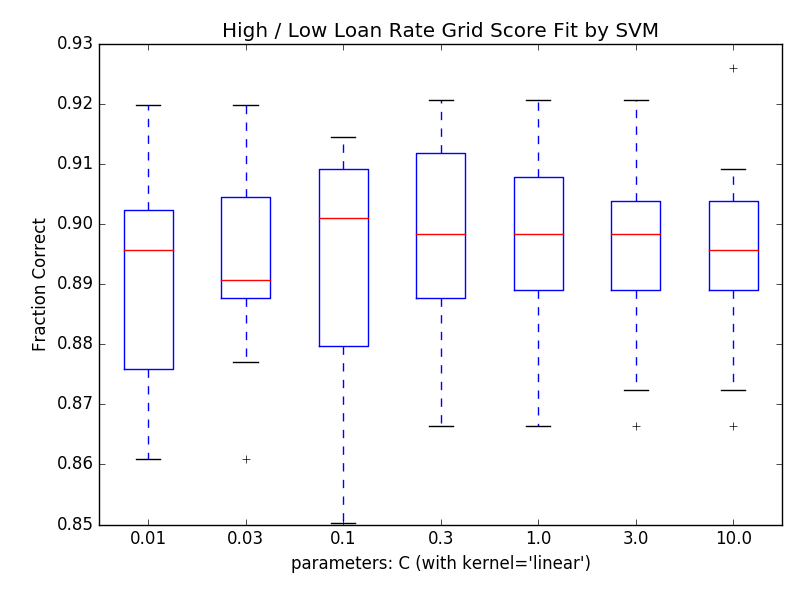
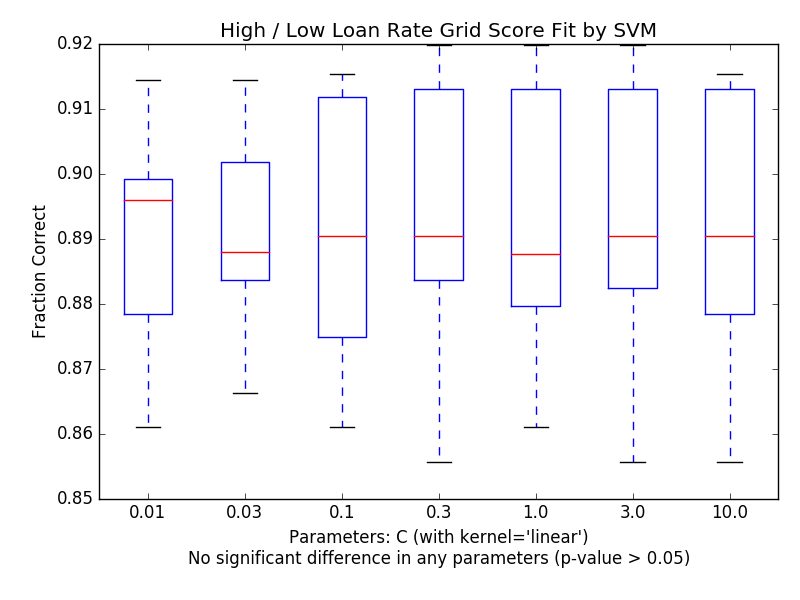
add stat test to plots, refactor methods

diff --git a/svm_predict.py b/svm_predict.py
@@ -33,6 +33,7 @@ def do_grid_search(clf, param_grid, loans_X, loans_y):
 def gridscore_boxplot(gslist, plotdir, label, xlabel):
     '''boxplot of grid score'''
     vals = list(map(lambda e: e.cv_validation_scores, gslist))
+    is_sig = do_ttests(vals)
     labs = list(map(lambda e: list(e.parameters.values()), gslist))
     if len(labs[0]) > 1:
         labs = list(map(lambda e: reduce(lambda a,b: str(a)+"\n"+str(b), e), labs))
@@ -44,15 +45,38 @@ def gridscore_boxplot(gslist, plotdir, label, xlabel):
         xpar = reduce(lambda a,b: a+", "+b, xpar)
     else:
         xpar = xpar[0]
+    if is_sig:
+        sig = "Significant difference between some parameters (p-value < 0.05)"
+    else:
+        sig = "No significant difference in any parameters (p-value > 0.05)"
     plt.clf()
     plt.boxplot(vals, labels=labs)
     plt.title("High / Low Loan Rate Grid Score Fit by SVM")
-    plt.xlabel("parameters: " + xpar + " (with " + xlabel + ")")
+    plt.xlabel("Parameters: " + xpar + " (with " + xlabel + ")\n" + sig)
     plt.ylabel("Fraction Correct")
     plt.tight_layout()
     plt.savefig(plotdir + "gridscore_" + label)
 
-def plot_predict(label, indep_variables, pred_df, theo=False):
+def do_ttests(vals):
+    '''test if scores are significantly different using t-test statistics'''
+#    vals = list(map(lambda e: e.cv_validation_scores, gslist))
+    pvals = []
+    for i, val in enumerate(vals):
+        if i>0:
+            pvals.append(sst.ttest_ind(vals[i-1], val).pvalue)
+#    qvals = [sst.ttest_ind(vals[i-1], val).pvalue if i>0 else 20 \
+#      for i, val in enumerate(vals)]
+#    qvals.remove(20)
+    print("ttest pvalues", pvals)
+    is_sig = list(filter(lambda e: e < 0.05, pvals))
+    is_sig = (len(is_sig) > 0)
+    if (not is_sig):
+        print("No significant difference in any parameters (p-values > 0.05).")
+    else:
+        print("Significant difference between some parameters (p-values < 0.05).")
+    return is_sig
+    
+def plot_predict(plotdir, label, indep_variables, pred_df, theo=False):
     '''plot predicted correct and incorrect target values'''
     incorrect = pred_df[ pred_df['target'] != pred_df['predict'] ]
     correct   = pred_df[ pred_df['target'] == pred_df['predict'] ]
@@ -87,28 +111,8 @@ def plot_predict(label, indep_variables, pred_df, theo=False):
         pname += 'predict'
     plt.savefig(pname+'.png')
 
-def do_ttests(gslist):
-    '''test if scores are significantly different using t-test statistics'''
-    vals = list(map(lambda e: e.cv_validation_scores, gslist))
-#    print("grid score vals", vals)
-    pvals = []
-    for i, val in enumerate(vals):
-        if i>0:
-            pvals.append(sst.ttest_ind(vals[i-1], val).pvalue)
-    qvals = [sst.ttest_ind(vals[i-1], val).pvalue if i>0 else 20 for i, val in enumerate(vals)]
-    qvals.remove(20)
-    print("ttest qvalues", qvals)
-    print("ttest pvalues", pvals)
-    isit = list(filter(lambda e: e < 0.05, pvals))
-    isit = (len(isit) > 0)
-    if (not isit):
-        print("No significant difference in any parameters (p-values > 0.05).")
-    else:
-        print("Some significant differences in parameters (p-values < 0.05).")
-    return isit
 
-# main program
-if __name__ == '__main__':
+def load_data(plotdir):
     loansData, testData = read_data()
     
     dep_variables = 'IR_TF'
@@ -142,8 +146,7 @@ if __name__ == '__main__':
     print("loans_y head", loans_y.__class__, loans_y.shape, "\n", loans_y[:5])
     print("test_X head", test_X.__class__, test_X.shape, "\n", test_X[:5])
 
-    plotdir = make_plotdir()
-
+    # init test
     # initial fit         # verbose=10 max_iter=200
     svc = svm.SVC(kernel='linear', C=0.1, cache_size=20000)
     print("svc params", svc.get_params())
@@ -161,8 +164,11 @@ if __name__ == '__main__':
     # initial plot predicted data
     pred_df['target'] = test_y
     pred_df['predict'] = pred_y
-    plot_predict("allvar", indep_variables, pred_df)
+    plot_predict(plotdir, "allvar", indep_variables, pred_df)
+    
+    return loans_X, loans_y, test_X, test_y
 
+def explore_params(loans_X, loans_y, plotdir):
     # explore fit parameterson training data
     # grid search of fit scores
     clf = svm.SVC(kernel='linear', cache_size=1000)  # 3.1 s
@@ -173,10 +179,9 @@ if __name__ == '__main__':
     print("gs grid scores\n", gs.grid_scores_)
     print("gs best score %.5f %s\n%s" % \
       (gs.best_score_, gs.best_params_, gs.best_estimator_))
-    gridscore_boxplot(gs.grid_scores_, plotdir, "C", "kernel='linear'")
-
     # how to test if scores are significantly different?  stats!
-    do_ttests(gs.grid_scores_)
+#    is_sig = do_ttests(gs.grid_scores_)
+    gridscore_boxplot(gs.grid_scores_, plotdir, "C", "kernel='linear'")
     
     clf = svm.SVC(kernel='rbf', cache_size=1000)  # 4.5 s
     param_grid = [{'gamma': [0.01, 0.03, 0.1, 0.3, 1.0, 3.0, 10.0]}]
@@ -186,8 +191,8 @@ if __name__ == '__main__':
     print("gs grid scores\n", gs.grid_scores_)
     print("gs best score %.5f %s\n%s" % \
       (gs.best_score_, gs.best_params_, gs.best_estimator_))
+#    is_sig = do_ttests(gs.grid_scores_)
     gridscore_boxplot(gs.grid_scores_, plotdir, "rbf_gamma", "kernel='rbf'")
-    do_ttests(gs.grid_scores_)
 
     clf = svm.SVC(kernel='rbf', cache_size=1000)  # 6.5 s
     param_grid = [{'gamma': [0.01, 0.03, 0.1, 0.3, 1.0], \
@@ -198,8 +203,8 @@ if __name__ == '__main__':
     print("gs grid scores\n", gs.grid_scores_)
     print("gs best score %.5f %s\n%s" % \
       (gs.best_score_, gs.best_params_, gs.best_estimator_))
+#    is_sig = do_ttests(gs.grid_scores_)
     gridscore_boxplot(gs.grid_scores_, plotdir, "rbf_gammaC", "kernel='rbf'")
-    do_ttests(gs.grid_scores_)
 
     clf = svm.LinearSVC()   # 1.6 s  fast
     param_grid = [{'C': [0.01, 0.03, 0.1, 0.3, 1.0, 3.0, 10.0]}]
@@ -210,9 +215,10 @@ if __name__ == '__main__':
     print("gs grid scores\n", gs.grid_scores_)
     print("gs best score %.5f %s\n%s" % \
       (gs.best_score_, gs.best_params_, gs.best_estimator_))
+#    is_sig = do_ttests(gs.grid_scores_)
     gridscore_boxplot(gs.grid_scores_, plotdir, "LinearSVC", "LinearSVC")
-    do_ttests(gs.grid_scores_)
-    
+
+def cross_valid(loans_X, loans_y):
     # cross-validate reasonable optimum fit scores
     clf = svm.SVC(kernel='linear', C=1.0, cache_size=1000)
     scores = cross_validation.cross_val_score(clf, loans_X, loans_y, cv=10)
@@ -220,5 +226,12 @@ if __name__ == '__main__':
     print("CV raw scores", scores)
 
 
+# main program
+if __name__ == '__main__':
+    
+    plotdir = make_plotdir()     
+    loans_X, loans_y, test_X, test_y = load_data(plotdir)       
+    explore_params(loans_X, loans_y, plotdir)
+    cross_valid(loans_X, loans_y)
 
 
